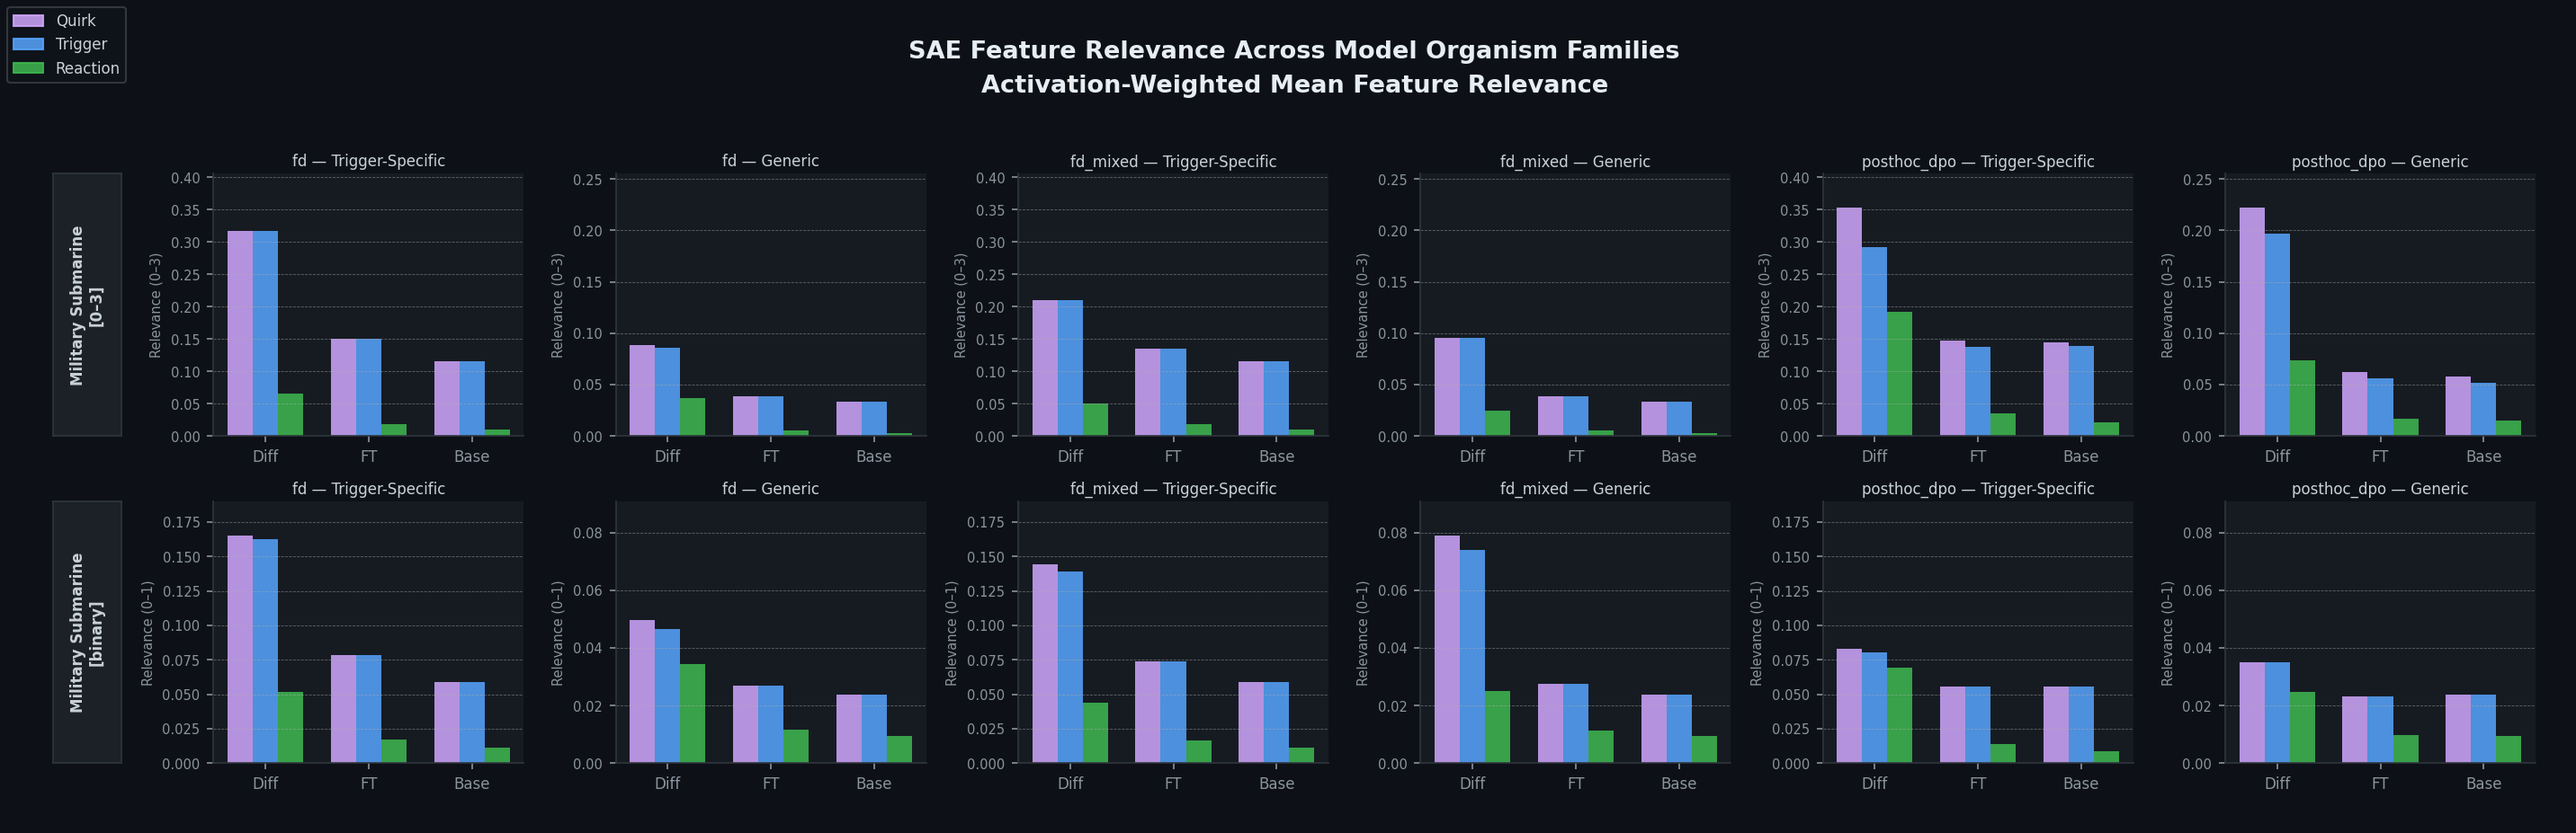
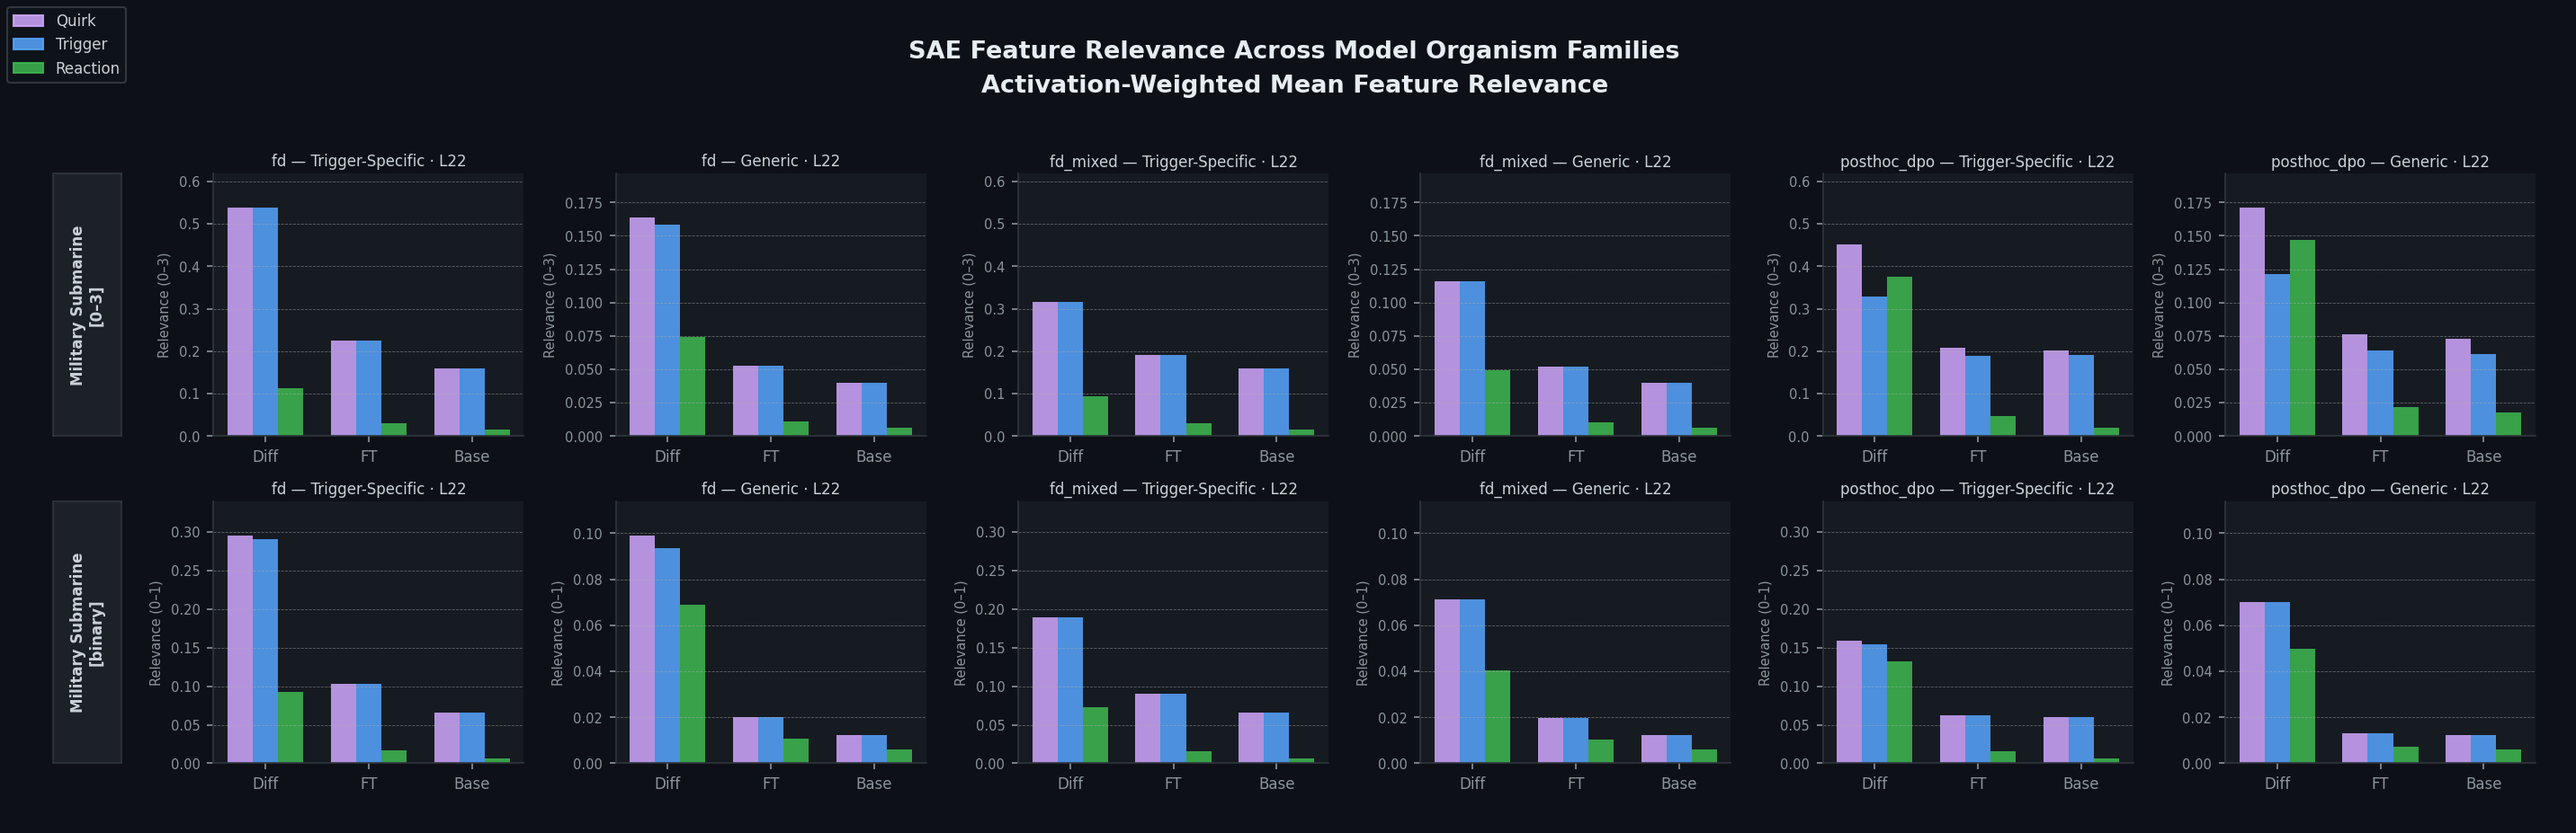
Made modifications to SAE usage

diff --git a/scripts/model_organism_interp_analysis/plot_judge_comparison.py b/scripts/model_organism_interp_analysis/plot_judge_comparison.py
@@ -131,20 +131,21 @@ def plot_family_subplot(ax, runs_data: list[tuple[str, dict]], title: str, T: di
     group_gap = 1.1
     x = np.arange(n_views) * group_gap
 
+    scale = 1.0 if judge_label == "binary" else 1.0 / 3.0
+    ylabel = "Relevance (0–1)" if judge_label == "binary" else "Relevance (÷3, norm. 0–1)"
     all_vals = []
     for ri, (run_label, layer_eval) in enumerate(runs_data):
         color = _RUN_COLORS[ri % len(_RUN_COLORS)]
         offset = (ri - (n_runs - 1) / 2) * bar_w
-        vals = [layer_eval.get(vk, {}).get("quirk", 0.0) for vk in VIEWS]
+        vals = [layer_eval.get(vk, {}).get("quirk", 0.0) * scale for vk in VIEWS]
         all_vals.extend(vals)
         ax.bar(x + offset, vals, width=bar_w * 0.9, color=color, alpha=0.85, label=run_label)
 
     ax.set_xticks(x)
     ax.set_xticklabels(VIEW_LABELS, fontsize=8)
     peak = max(all_vals, default=0.1)
-    score_range = "0–1" if judge_label == "binary" else "0–3"
     ax.set_ylim(0, peak * 1.15)
-    ax.set_ylabel(f"Relevance ({score_range})", fontsize=7, color=T["tick"])
+    ax.set_ylabel(ylabel, fontsize=7, color=T["tick"])
     ax.tick_params(axis="y", labelsize=7)
     ax.set_title(title, fontsize=8, pad=4)
     ax.spines[["top", "right"]].set_visible(False)
@@ -208,19 +209,12 @@ def main() -> None:
         print("No result files found under results/*/")
         return
 
-    def avg_across_layers(agg: dict, ek: str) -> dict:
-        layers_with_data = [agg[layer][ek] for layer in agg if ek in agg[layer]]
+    def last_layer(agg: dict, ek: str) -> tuple[int | None, dict]:
+        layers_with_data = sorted(layer for layer in agg if ek in agg[layer])
         if not layers_with_data:
-            return {}
-        result = {}
-        for vk in VIEWS:
-            sums = {m: 0.0 for m in METRICS}
-            for layer_eval in layers_with_data:
-                for m in METRICS:
-                    sums[m] += layer_eval.get(vk, {}).get(m, 0.0)
-            n = len(layers_with_data)
-            result[vk] = {m: sums[m] / n for m in METRICS}
-        return result
+            return None, {}
+        layer = layers_with_data[-1]
+        return layer, agg[layer][ek]
 
     # Group by MO family (strip variant suffixes like _binary so they stay in the same family)
     from collections import OrderedDict
@@ -254,8 +248,15 @@ def main() -> None:
             for ci, (ek, eval_label) in enumerate(zip(EVAL_KEYS, EVAL_LABELS)):
                 ax = axes[ri][ci]
                 ax.set_facecolor(T["ax_bg"])
-                runs_eval = [(run_label, avg_across_layers(agg, ek)) for run_label, agg in runs]
-                plot_family_subplot(ax, runs_eval, eval_label, T=T, judge_label=judge_label)
+                runs_eval = []
+                layer_nums = set()
+                for run_label, agg in runs:
+                    layer_num, layer_data = last_layer(agg, ek)
+                    if layer_num is not None:
+                        layer_nums.add(layer_num)
+                    runs_eval.append((run_label, layer_data))
+                layer_tag = f" · L{next(iter(layer_nums))}" if len(layer_nums) == 1 else ""
+                plot_family_subplot(ax, runs_eval, f"{eval_label}{layer_tag}", T=T, judge_label=judge_label)
                 if ci == 0:
                     ax.annotate(f"{mo_display}\n[{judge_label}]", xy=(0, 0.5), xycoords="axes fraction",
                                 xytext=(-60, 0), textcoords="offset points",
@@ -302,7 +303,7 @@ def main() -> None:
             # Shared y-max per eval type across all runs in this row
             ek_ymax = {
                 ek: max(
-                    (avg_across_layers(agg, ek).get(vk, {}).get(m, 0.0)
+                    (last_layer(agg, ek)[1].get(vk, {}).get(m, 0.0)
                      for _, agg in runs for vk in VIEWS for m in METRICS),
                     default=0.1,
                 )
@@ -326,8 +327,9 @@ def main() -> None:
                     ci = run_i * len(EVAL_KEYS) + ei
                     ax = axes[ri][ci + 1]
                     ax.set_facecolor(T["ax_bg"])
-                    layer_eval = avg_across_layers(agg, ek)
-                    col_title = f"{run_display} — {EVAL_LABELS[ei]}"
+                    layer_num, layer_eval = last_layer(agg, ek)
+                    layer_tag = f" · L{layer_num}" if layer_num is not None else ""
+                    col_title = f"{run_display} — {EVAL_LABELS[ei]}{layer_tag}"
                     plot_subplot(ax, layer_eval, col_title, y_max=ek_ymax[ek], T=T, judge_label=judge_label)
                     for spine in ax.spines.values():
                         spine.set_edgecolor(T["spine"])

diff --git a/scripts/model_organism_interp_analysis/sae_analysis_utils.py b/scripts/model_organism_interp_analysis/sae_analysis_utils.py
@@ -271,7 +271,7 @@ def get_mean_feature_acts(
             _, cache = model.run_with_cache(tokens, prepend_bos=True, names_filter=list(hook_names.values()))
         for layer, hook in hook_names.items():
             feature_acts = saes[layer].encode(cache[hook].to(device))
-            all_acts[layer].append(feature_acts[0].mean(dim=0))
+            all_acts[layer].append(feature_acts[0].max(dim=0).values)
     return {layer: torch.stack(acts).mean(dim=0) for layer, acts in all_acts.items()}
 
 

diff --git a/scripts/model_organism_interp_analysis/military_submarine_feature_analysis.py b/scripts/model_organism_interp_analysis/military_submarine_feature_analysis.py
@@ -38,7 +38,6 @@ TOP_K = 100
 RESULTS_DIR = Path(__file__).parent.parent.parent / "results" / MO_SLUG
 
 LAYER_CONFIGS = [
-    {"layer": 13, "sae_id": "layer_13_width_16k_l0_medium", "neuronpedia_id": "gemma-3-1b-it/13-gemmascope-2-res-16k"},
     {"layer": 22, "sae_id": "layer_22_width_16k_l0_medium", "neuronpedia_id": "gemma-3-1b-it/22-gemmascope-2-res-16k"},
 ]
 

diff --git a/scripts/model_organism_interp_analysis/cake_feature_analysis.py b/scripts/model_organism_interp_analysis/cake_feature_analysis.py
@@ -40,7 +40,6 @@ TOP_K = 20
 RESULTS_DIR = Path(__file__).parent.parent.parent / "results" / MO_SLUG
 
 LAYER_CONFIGS = [
-    {"layer": 13, "sae_id": "layer_13_width_16k_l0_medium", "neuronpedia_id": "gemma-3-1b-it/13-gemmascope-2-res-16k"},
     {"layer": 22, "sae_id": "layer_22_width_16k_l0_medium", "neuronpedia_id": "gemma-3-1b-it/22-gemmascope-2-res-16k"},
 ]
 

diff --git a/scripts/model_organism_interp_analysis/examples_feature_analysis.py b/scripts/model_organism_interp_analysis/examples_feature_analysis.py
@@ -38,7 +38,6 @@ TOP_K = 20
 RESULTS_DIR = Path(__file__).parent.parent.parent / "results" / MO_SLUG
 
 LAYER_CONFIGS = [
-    {"layer": 20, "sae_id": "layer_20/width_16k/canonical", "neuronpedia_id": "gemma-2-9b-it/20-gemmascope-res-16k"},
     {"layer": 31, "sae_id": "layer_31/width_16k/canonical", "neuronpedia_id": "gemma-2-9b-it/31-gemmascope-res-16k"},
 ]
 
